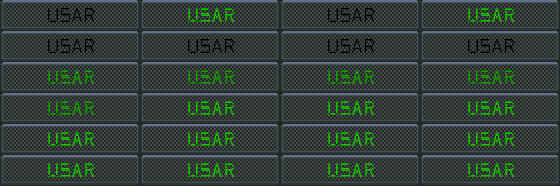
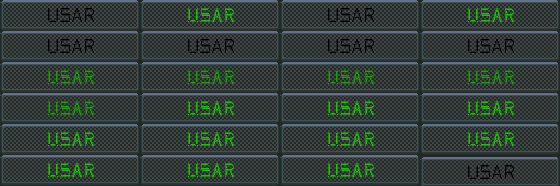
botones presionables

Changed region(s): [[0.7286, 0.8333, 1.0, 0.9946]]

diff --git a/ProyectosSDL/HolaSDL/puzzle1State.cpp b/ProyectosSDL/HolaSDL/puzzle1State.cpp
@@ -2,6 +2,7 @@
 #include <fstream>
 #include "json.hpp"
 #include "Puzzle.h"
+
 Puzzle1State::Puzzle1State(SDLApp * game, GameState * previousState, Uint8 numberPuzzle, int numText, int id) :Puzzle(game, id), previousState(previousState), numText_(numText), _id(id)
 {
 	loadFromJson(numberPuzzle); //el 1 ese habr� que sacarlo de alg�n lado
@@ -18,6 +19,8 @@ Puzzle1State::Puzzle1State(SDLApp * game, GameState * previousState, Uint8 numbe
 	auxAB = matriz[numCas-1][numCas-1]->getPosition().getY();
 	auxA = auxAB - relacion.second*espaciado;
 
+	pb.resize((numCas * 2)+2);
+
 	for (int i = 0; i < numCas*2; i++) {
 		Boton* b;
 		//RenderComponent* bAnim = new ImageRenderer(app->getResources()->getImageTexture(Resources::BotonPuzzle));
@@ -26,15 +29,19 @@ Puzzle1State::Puzzle1State(SDLApp * game, GameState * previousState, Uint8 numbe
 			b->setWidth(50);
 			b->setHeight(40);
 			b->setPosition(Vector2D(b->getWidth() + 280, relacion.second*((espaciado-4)*i + 60)));
+			b->setAnimated(true);
+			b->addInputComponent(&pb[i]);
 		}
 		else {
 			b = new Boton(game, usar, this, "boton1", -1, i - numCas);
 			b->setWidth(50);
 			b->setHeight(40);
 			b->setPosition(Vector2D(relacion.first*(espaciado*(i-numCas) + 97) + espaciado*2, game->getWindowHeight()-b->getHeight() - b->getHeight()/2 + 10));
+			b->setAnimated(true);
+			b->addInputComponent(&pb[i-numCas]);
 		}
-		b->addAnim("normal", { 0 }, false);
-		b->addAnim("pulsado", { 1 }, false, -1, 50);
+		b->addAnim("Stop", { 0 }, true);
+		b->addAnim("Pressed", { 1 }, true, -1, 50);
 		RenderComponent* bAnim = new AnimationRenderer(app->getResources()->getImageTexture(Resources::BotonPuzzle), b->getAnimations(), 1, 2, 49, 51);
 		b->setRender(bAnim);
 		botonesAnim.push_back(bAnim);
@@ -48,8 +55,10 @@ Puzzle1State::Puzzle1State(SDLApp * game, GameState * previousState, Uint8 numbe
 	exitFunct_ = [game]() mutable {game->getStateMachine()->popState(false); };
 
 	resetButton = new Boton(app, "reset", resetFunct_);
-	resetButton->addAnim("normal", { 0 }, false);
-	resetButton->addAnim("pulsado", { 1 }, false, -1, 50);
+	resetButton->addAnim("Stop", { 0 }, true);
+	resetButton->addAnim("Pressed", { 1 }, true, -1, 50);
+	resetButton->setAnimated(true);
+	resetButton->addInputComponent(&pb[numCas * 2]);
 	reiniciar = new AnimationRenderer(app->getResources()->getImageTexture(Resources::BotonReiniciar), resetButton->getAnimations(), 1, 2, 140, 140);
 	resetButton->setRender(reiniciar);
 	resetButton->setPosition(Vector2D(43.5*relacion.first, 378*relacion.second)); //numeros majos
@@ -59,8 +68,10 @@ Puzzle1State::Puzzle1State(SDLApp * game, GameState * previousState, Uint8 numbe
 	stage.push_back(resetButton);
 
 	exitButton = new Boton(app, "reset", exitFunct_);
-	exitButton->addAnim("normal", { 0 }, false);
-	exitButton->addAnim("pulsado", { 1 }, false, -1, 50);
+	exitButton->addAnim("Stop", { 0 }, true);
+	exitButton->addAnim("Pressed", { 1 }, true, -1, 50);
+	exitButton->setAnimated(true);
+	exitButton->addInputComponent(&pb[numCas * 2 + 1]);
 	exitRenderer = new AnimationRenderer(app->getResources()->getImageTexture(Resources::BotonSalir), exitButton->getAnimations(), 1, 2, 49, 51);
 	exitButton->setRender(exitRenderer);
 	exitButton->setHeight(exitRenderer->getTexture()->getHeight() * 2.1 / 3);

diff --git a/ProyectosSDL/HolaSDL/Inventory.cpp b/ProyectosSDL/HolaSDL/Inventory.cpp
@@ -57,17 +57,25 @@ if (inventario->getLength() != 0) {//si hay algun objeto en la lista de objetos
 	//--------------------Botones----------------------
 	usFunc_ = [this]() mutable {usar(this); };
 	useButton = new Boton(app, "use", usFunc_); //nuevo Boton
+	useButton->addAnim("Pressed", { 23 }, true, -1, 100);
+	useButton->addAnim("Stop", { 22 }, true, -1, 100);
 	RenderComponent* im = new AnimationRenderer(app->getResources()->getImageTexture(Resources::BotonUsar), useButton->getAnimations(), 4, 6, 140, 31); //se crea su image Renderer
 	useButton->addRenderComponent(im);
+	useButton->setAnimated(true);
+	useButton->addInputComponent(&pb);
 	useButton->setPosition(Vector2D{ 548*relacion.first, 449*relacion.second }); //posiciones random de prueba
 	useButton->setWidth(140*relacion.first);
 	useButton->setHeight(31*relacion.second);
 	stage.push_back(useButton); //se pushea
 
 	swFunct_ = [this]() mutable {swap(this); };
-	swapButton = new Boton(app, "swap", swFunct_); //nuevo Boton
+	swapButton = new Boton(app, "swap", swFunct_); //nuevo BotonswapButton->addAnim("Pressed", { 23 }, true, -1, 100);
+	swapButton->addAnim("Pressed", { 23 }, true, -1, 100);
+	swapButton->addAnim("Stop", { 22 }, true, -1, 100);
 	RenderComponent* im2 = new AnimationRenderer(app->getResources()->getImageTexture(Resources::BotonSwap), swapButton->getAnimations(), 4, 6, 140, 31); //se crea su image Renderer
 	swapButton->addRenderComponent(im2);
+	swapButton->setAnimated(true);
+	swapButton->addInputComponent(&pb1);
 	swapButton->setPosition(Vector2D{ 548*relacion.first, 480*relacion.second }); //posiciones random de prueba
 	swapButton->setWidth(140*relacion.first);
 	swapButton->setHeight(31*relacion.second);

diff --git a/ProyectosSDL/HolaSDL/pressButtonAnimation.cpp b/ProyectosSDL/HolaSDL/pressButtonAnimation.cpp
@@ -1,0 +1,38 @@
+#include "pressButtonAnimation.h"
+#include "Entity.h"
+
+
+
+pressButtonAnimation::pressButtonAnimation()
+{
+}
+
+
+pressButtonAnimation::~pressButtonAnimation()
+{
+}
+
+void pressButtonAnimation::handleInput(GameObject * o, Uint32 time, const SDL_Event & event)
+{
+	Entity* aux = static_cast<Entity*>(o);
+	if (aux->isAnimated()) {
+		if (event.type == SDL_MOUSEBUTTONDOWN) {
+			SDL_Point p;
+			p.x = event.button.x;
+			p.y = event.button.y;
+
+			SDL_Rect rect;
+			rect.x = aux->getPosition().getX();
+			rect.y = aux->getPosition().getY();
+			rect.w = aux->getWidth();
+			rect.h = aux->getHeight();
+
+			if (SDL_PointInRect(&p, &rect)) {
+				aux->playAnim("Pressed");
+			}
+		}
+		else {
+			aux->playAnim("Stop");
+		}
+	}
+}

diff --git a/ProyectosSDL/HolaSDL/Inventory.h b/ProyectosSDL/HolaSDL/Inventory.h
@@ -6,6 +6,7 @@
 #include "ShortCut.h"
 #include "Boton.h"
 #include "sdl_includes.h"
+#include "pressButtonAnimation.h"
 
 const unsigned int tamanyoFuente = 35;
 const SDL_Color colorFuente = { 255, 255, 255, 1 };
@@ -28,6 +29,7 @@ private:
 	Entity* inventarioHud = new Entity(app);
 	Entity* marca = new Entity(app);
 	ShortCut* SC;
+	pressButtonAnimation pb, pb1;
 	const double espaciado = 87;
 	pair<const double, const double> relacion = { app->getWindowWidth() / 800.0 , app->getWindowHeight() / 600.0 };
 	const int numCas = 5;

diff --git a/ProyectosSDL/HolaSDL/ComponenteClickeable.cpp b/ProyectosSDL/HolaSDL/ComponenteClickeable.cpp
@@ -1,5 +1,5 @@
 #include "ComponenteClickeable.h"
-
+#include "Entity.h"
 //using namespace std;
 
 ComponenteClickeable::ComponenteClickeable()
@@ -13,6 +13,7 @@ ComponenteClickeable::~ComponenteClickeable()
 bool ComponenteClickeable::handleInput(GameObject* o, const SDL_Event& e) {
 	
 	bool eventHandled = false;
+	Entity* aux = static_cast<Entity*>(o);
 
 	SDL_Rect rect;//Inizializacion del Rect
 	rect.x = o->getPosition().getX();

diff --git a/ProyectosSDL/HolaSDL/puzzle1State.h b/ProyectosSDL/HolaSDL/puzzle1State.h
@@ -8,6 +8,7 @@
 #include "Boton.h"
 #include "GOUnlockeable.h"
 #include "Puzzle.h"
+#include "pressButtonAnimation.h"
 
 
 class Puzzle1State :
@@ -31,6 +32,7 @@ private:
 	RenderComponent* imagenCopia;
 	Entity* copia = new Entity(app);
 	Entity* puzzleHud = new Entity(app);
+	vector<pressButtonAnimation> pb;
 
 	//--------------------------VARIABLES AUXILIARES-----------------------------------------
 	const int numCas = 5;

diff --git a/ProyectosSDL/HolaSDL/Resources.h b/ProyectosSDL/HolaSDL/Resources.h
@@ -173,11 +173,7 @@ public:
 		Transparente,
 		BotonSalir,
 		BotonSalirLuces,
-		ReturnLuces,
-		SenyoraDelBazar,
-		SenyorDelBazar,
-		VecinoDelMuerto,
-		NumeroDelCamello
+		ReturnLuces
 	};
 private:
 	static std::vector<std::string> imageFiles_; // initialized in .cpp

diff --git a/ProyectosSDL/HolaSDL/pressButtonAnimation.h b/ProyectosSDL/HolaSDL/pressButtonAnimation.h
@@ -1,0 +1,10 @@
+#pragma once
+#include "InputComponent.h"
+class pressButtonAnimation :
+	public InputComponent
+{
+public:
+	pressButtonAnimation();
+	virtual ~pressButtonAnimation();
+	virtual void handleInput(GameObject* o, Uint32 time, const SDL_Event& event);
+};
